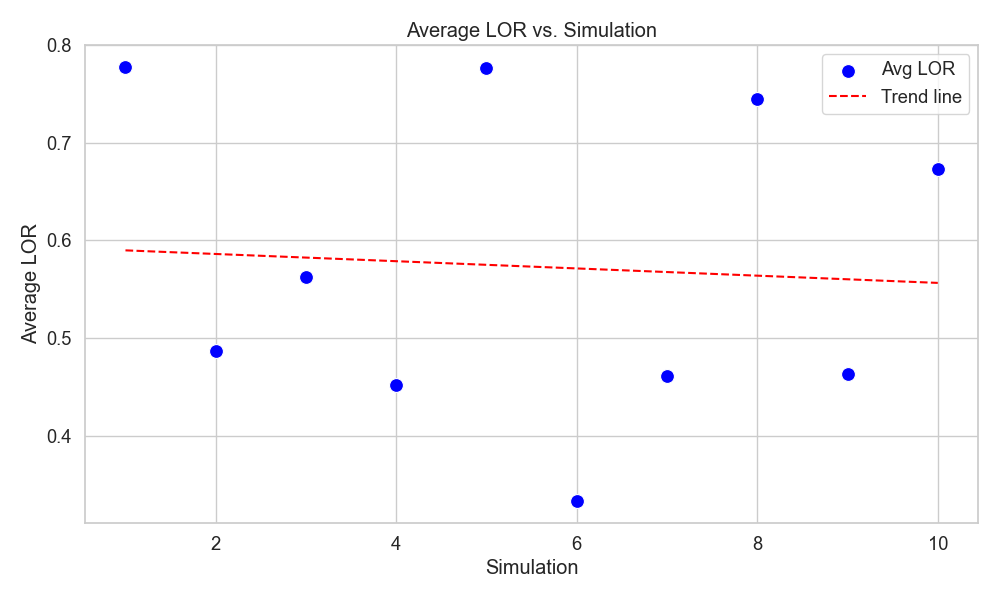
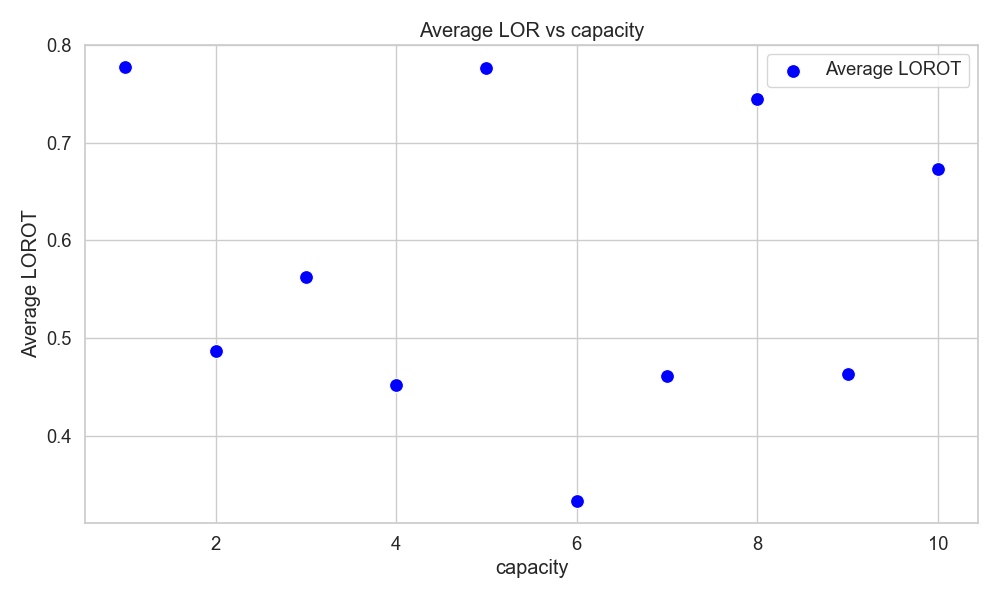
big automation improvements for graph generation, setting x and y axes automatically, setting filename automatically

diff --git a/sources/testing/graph_generation_lor.py b/sources/testing/graph_generation_lor.py
@@ -8,15 +8,21 @@ import matplotlib.pyplot as plt
 import seaborn as sns
 
 
-LOR_DATA_FILES = ["lor_with_constants.csv", "lor_vs_capacity.csv", "lor_vs_floors.csv", "lor_vs_requests.csv"]
+LOR_DATA_FILES = ["lor_vs_constants.csv", "lor_vs_capacity.csv", "lor_vs_floors.csv", "lor_vs_requests.csv"]
 
-WHICH_DATA: int = 3
+WHICH_DATA: int = 0 # MUST BE BETWEEN 0 AND 3
 
 DATA_FOLDER_PATH = os.path.join("results", "data", "lor_data")
 DATA_FILENAME = LOR_DATA_FILES[WHICH_DATA]
 
+FILEPATH = os.path.join(DATA_FOLDER_PATH, DATA_FILENAME)
+
 OUTPUT_FILE = "results/charts/" + (LOR_DATA_FILES[WHICH_DATA]).removesuffix(".csv") + ".png"
 
+Y_LABEL = "Average LOROT"
+X_LABEL = LOR_DATA_FILES[WHICH_DATA].removeprefix("lor_vs_").removesuffix(".csv")
+if X_LABEL == "constants":
+    X_LABEL = ""
 
 # Set a clean, publication-quality style for the plots
 sns.set(style="whitegrid", palette="muted", font_scale=1.2)
@@ -33,7 +39,7 @@ def plot_avg_lor(file_path, output_file):
     
     plt.figure(figsize=(10, 6))
     
-    sns.scatterplot(x='simulation', y='avg_lor', data=df, s=100, color="blue", label="Avg LOR")
+    sns.scatterplot(x='simulation', y='avg_lor', data=df, s=100, color="blue", label=Y_LABEL)
     
  
     # UNCOMMENT IF YOU WANT TRENDLINE
@@ -45,9 +51,9 @@ def plot_avg_lor(file_path, output_file):
     # y_fit = poly_eqn(x)
     # plt.plot(x, y_fit, color="red", linestyle="--", label="Trend line")
     
-    plt.title("Average LOR vs. Simulation")
-    plt.xlabel("Simulation")
-    plt.ylabel("Average LOR")
+    plt.title("Average LOR vs " + X_LABEL)
+    plt.xlabel(X_LABEL)
+    plt.ylabel(Y_LABEL)
     plt.legend()
     plt.tight_layout()
     
@@ -55,10 +61,11 @@ def plot_avg_lor(file_path, output_file):
     plt.close()
 
 def main():
-    file_path = os.path.join(DATA_FOLDER_PATH, DATA_FILENAME)
-    
-    plot_avg_lor(file_path, OUTPUT_FILE)
-    print(f"Graph saved to {OUTPUT_FILE}")
+    for i in range(0, 4):
+        global WHICH_DATA
+        WHICH_DATA = i
+        plot_avg_lor(FILEPATH, OUTPUT_FILE)
+        print(f"Graph saved to {OUTPUT_FILE}")
 
 if __name__ == "__main__":
     main()
